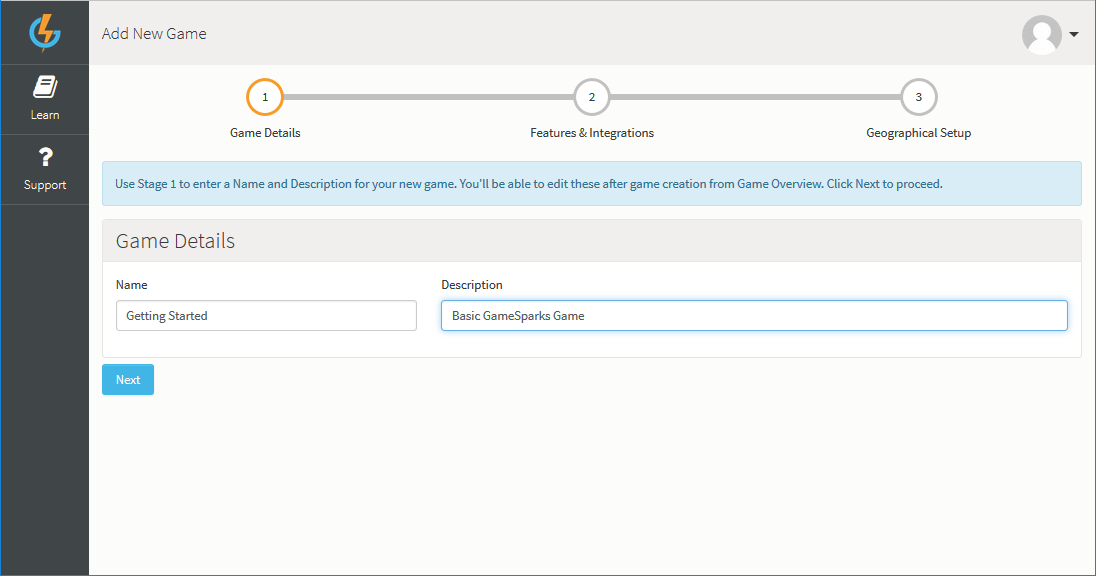
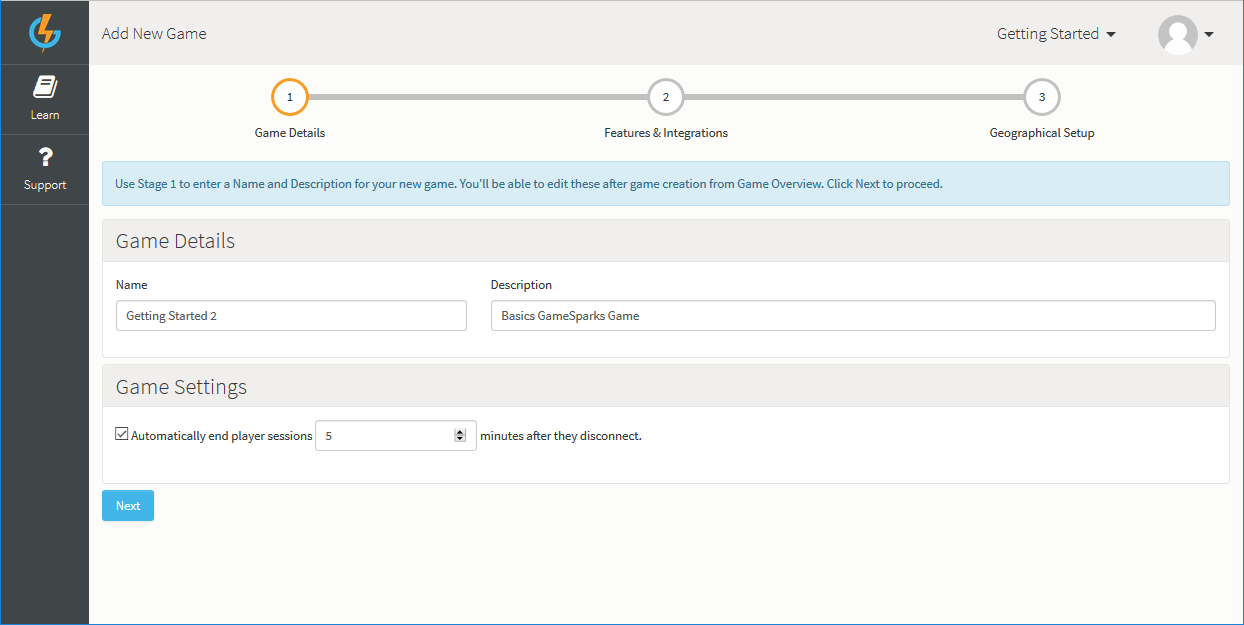
Sprint 72 updates

Changed region(s): [[0.0, 0.0, 1.0, 1.0], [0.3412, 0.6875, 0.5274, 0.7188], [0.8066, 0.0312, 0.8996, 0.0625]]

diff --git a/MARKDOWN/Getting Started/Creating a Game/README.md b/MARKDOWN/Getting Started/Creating a Game/README.md
@@ -24,21 +24,25 @@ You are taken to the [Register](https://auth.gamesparks.net/register.htm) screen
  * If you've used GameSparks before, click *Add Game* from the drop-down menu in the top-right of the screen.
 
 Adding a game is a 3-stage process:
-* *Game Details* - Enter a name and description for your game.
-* *Features & Integrations* - Select the currencies, platform features, and 3rd-party integrations you want for your game.
-* *Geographical Setup* - Configure the Geographical Setup for your game.
+* *Step 1. Game Details* - Enter a name and description for your game. Set a timeout to end player sessions after they disconnect from your game.
+* *Step 2. Features & Integrations* - Select the currencies, platform features, and 3rd-party integrations you want for your game.
+* *Step 3. Geographical Setup* - Configure the Geographical Setup for your game.
 
 <q>**Note!** In this section, we'll assume you've used Gamesparks before and have already created a game.</q>
 
 *1.* Log in to the portal. You'll be taken to the last game you had open.
 
-*2.* Using the *Games Menu* at top-right, select *Add New Game*. The *Add New Game* page opens at the first stage of the game-creation process.
+*2.* Using the *Games Menu* at top-right, select *Add New Game*. The *Add New Game* page opens at **Stage 1** of the game-creation process.
 
 ![](img/CreatingGame/8.png)
 
-*3.* Enter a *Name* and *Description* for your new game and click *Next*. The *Add New Game* page moves you to the second stage of the game-creation process.
+*3.* Enter a *Name* and *Description* for your new game.
 
-*4.* Use this second stage to define some baseline settings for your new game:
+*4.* If you want to set a timeout to end a player's session after they disconnect, under *Game Settings* select the *Automatically end player sessions* check box and enter the timeout period in minutes.
+
+*5.* Click *Next*. The *Add New Game* page moves you to **Stage 2** of the game-creation process.
+
+*6.* Use this second stage to define some baseline settings for your new game:
 
 ![](img/CreatingGame/9.png)
 
@@ -46,12 +50,12 @@ Adding a game is a 3-stage process:
 * Select the *Platform Features* you want for your game - by default, all are selected.
 * Under *Integrations*, select the 3rd-party providers you want to integrate your game with - by default, none are selected.
 
-<q>**Selections are not Final!** You'll be able to edit these settings later after you have created your game.</q>
+<q>**Selections are not Final!** You'll be able to edit these settings later after you have created your game. See [Game Overview](/Documentation/Game Overview/README.md)</q>
 
-*5.* Click *Next*. The *Add New Game* page moves you to the third stage of the game-creation process.
+*7.* Click *Next*. The *Add New Game* page moves you to **Stage 3** of the game-creation process.
 
 
-*6.* You can use this third stage for the *Geographical Setup* of your new game:
+*8.* You can use this third stage for the *Geographical Setup* of your new game:
 
 ![](img/CreatingGame/10.png)
 
@@ -60,7 +64,7 @@ Adding a game is a 3-stage process:
   * Select which countries where you want to players to be allowed access to your game - the default is to allow players in all countries to have access.
   * To block access for players in a country, select the country in the *Allow Access* list and use the arrows to move the country into the *Deny Access* list.
 
-*7.* When you have completed the third stage of the game creation process, click *Create*. You are taken to the *Game Overview* page of your new game:
+*9.* When you have completed **Stage 3** of the game creation process, click *Create*. You are taken to the *Game Overview* page of your new game:
 * Your game is assigned a unique *GameSparks API Key* and *GameSparks API Secret*. You'll need these to set up your SDK.
 * Your game is put into *Preview* stage. This is the stage where you build your game. When you are ready to publish your game, you can push it to the *Live* stage.
 

diff --git a/MARKDOWN/Documentation/Game Overview/README.md b/MARKDOWN/Documentation/Game Overview/README.md
@@ -5,7 +5,7 @@ src: /Documentation/Game Overview/README.md
 
 # Game Overview
 
-The Game Overview is designed to help you perform your initial game set up and any continuing game management tasks through the life of your game - from here you can:
+The Game Overview page is designed to help you perform your initial game set up and any continuing game management tasks throughout the life of your game - from here you can:
 
 * Log out from the portal and manage your GameSparks account.
 * Switch between dark and light UI themes.
@@ -104,16 +104,32 @@ To edit your game's details, click ![](img/GameOverview/19.png). The page adjust
 ![](img/GameOverview/8.png)
 
 * On the this tab, you can edit the following:
-
   * *Name* \- The name of your game, used to identify the game in the portal if you have several games.
   * *Description* \- A description of the game.
-  * *Signup Bonuses* \- The amount of each of the currencies to award a new player when a new account is created:
-    * *Hiding/Showing* - If you clear the checkbox for a currency, it's hidden in the portal. Note that this capability doesn't disable the currency in your game but simply hides it across the portal interface - for example, you will not see the currency when you Create/Edit a Virtual Good.
-    * *Segment Configuration* - On the *Currencies*, click *Segment* at top-right to configure the segmentation for your game's currencies.
+  * *Currencies* \- Configure the [Currencies and Signup Bonuses](#Configuring Game Currencies) for your game.
+  * *Game Settings* \- Define your [Game Settings](#Defining Game Settings)
+
+
+#### Configuring Game Currencies
+
+Under *Currencies* you can configure:
+* *Hiding/Showing Currencies* - If you clear the checkbox for a currency, it's hidden in the portal. Note that this capability doesn't *disable* the currency in your game but simply hides it across the portal interface - for example, you will not see the currency when you Create/Edit a Virtual Good.
+* *Currency Signup Bonuses* \- The amount of each Currency to award a new player when a new account is created.
+* *Currency Segmentation* - If you want to segment your *Currencies* at the game-level, click *Segment* at top-right:
 
 ![](img/GameOverview/15.png)
 
 For more details, see [Segments](/Documentation/Configurator/Segments.md).
+
+
+#### Defining Game Settings
+
+Currently, player sessions are only timed if an [EndSessionRequest](/API Documentation/Request API/Analytics/EndSessionRequest.md) is sent when a player disconnects. If you don’t set things up so that an End Session Request is sent when a player disconnects, their session will not be properly timed. Therefore, your Analytics data will be skewed due to these unended sessions.
+
+Under *Game Settings* you can select to automatically end a player session after a player disconnects from your game:
+* Select the *Automatically end player sessions* check box and enter the period in minutes that you want to elapse before this happens:
+
+![](img/GameOverview/28.png)
 
 ### Selecting Features and Integrations
 
